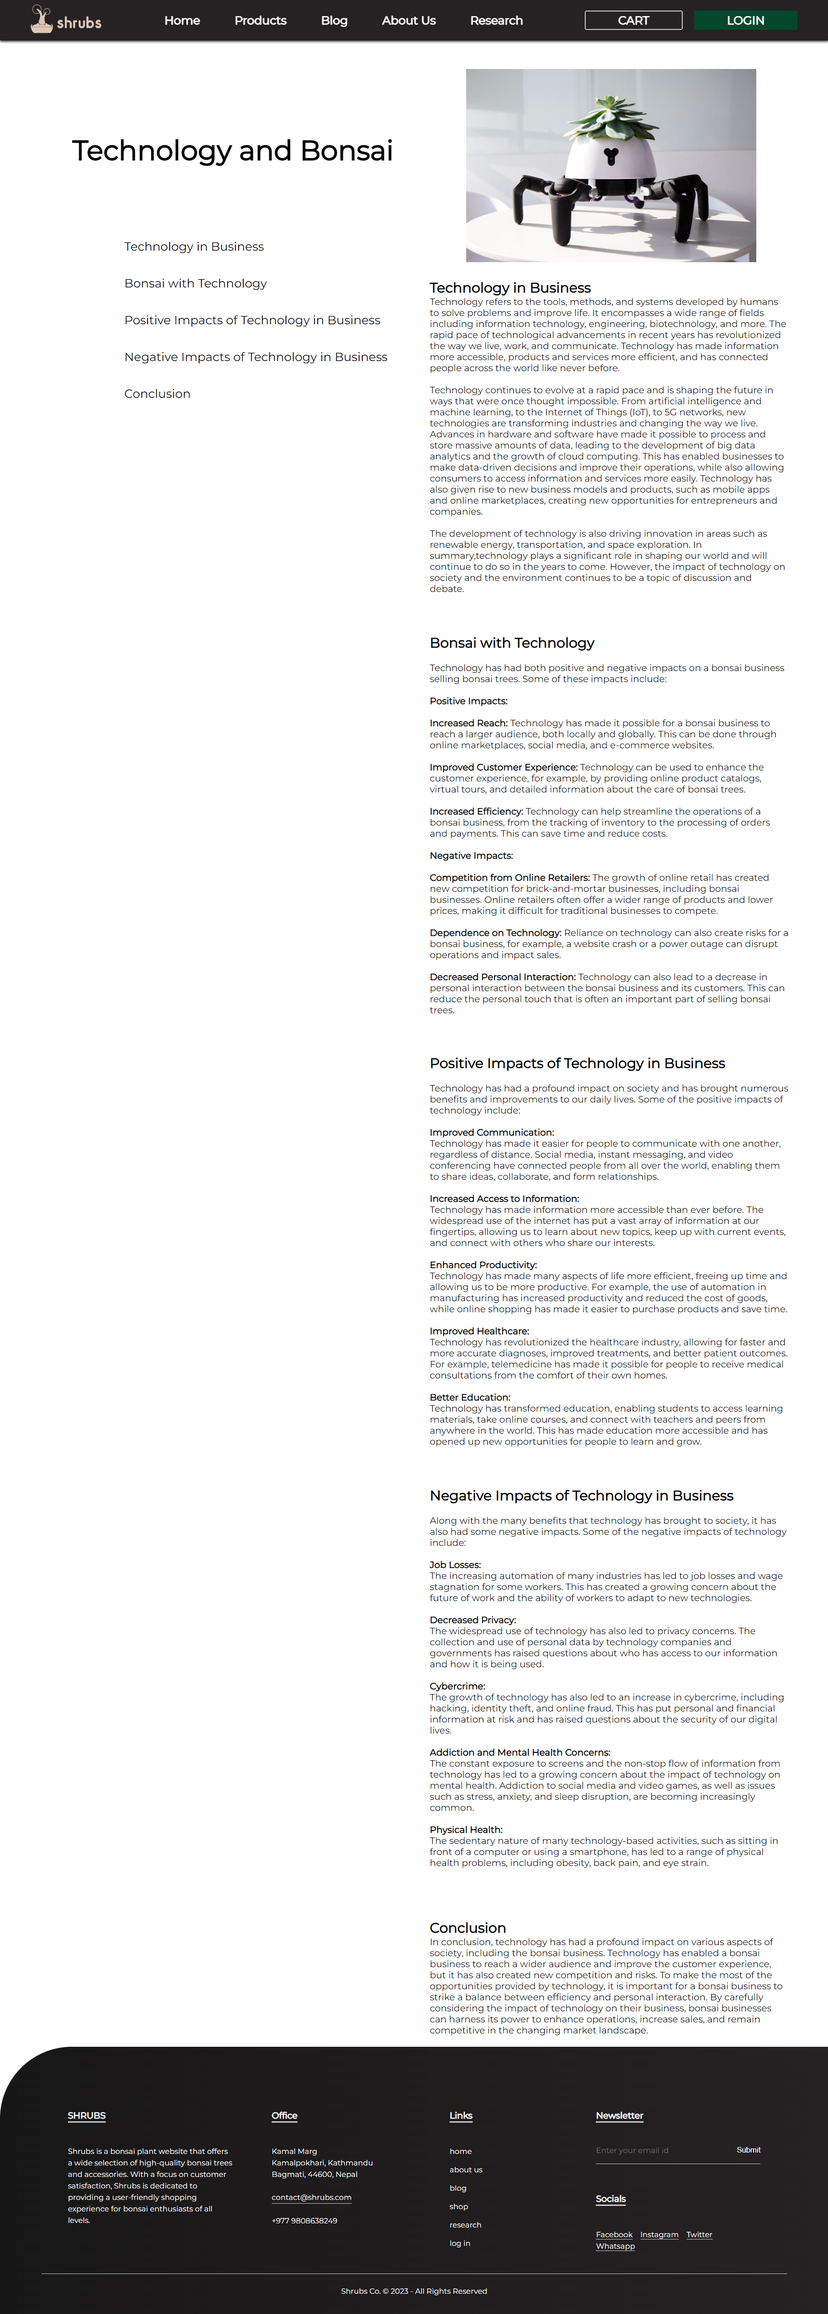
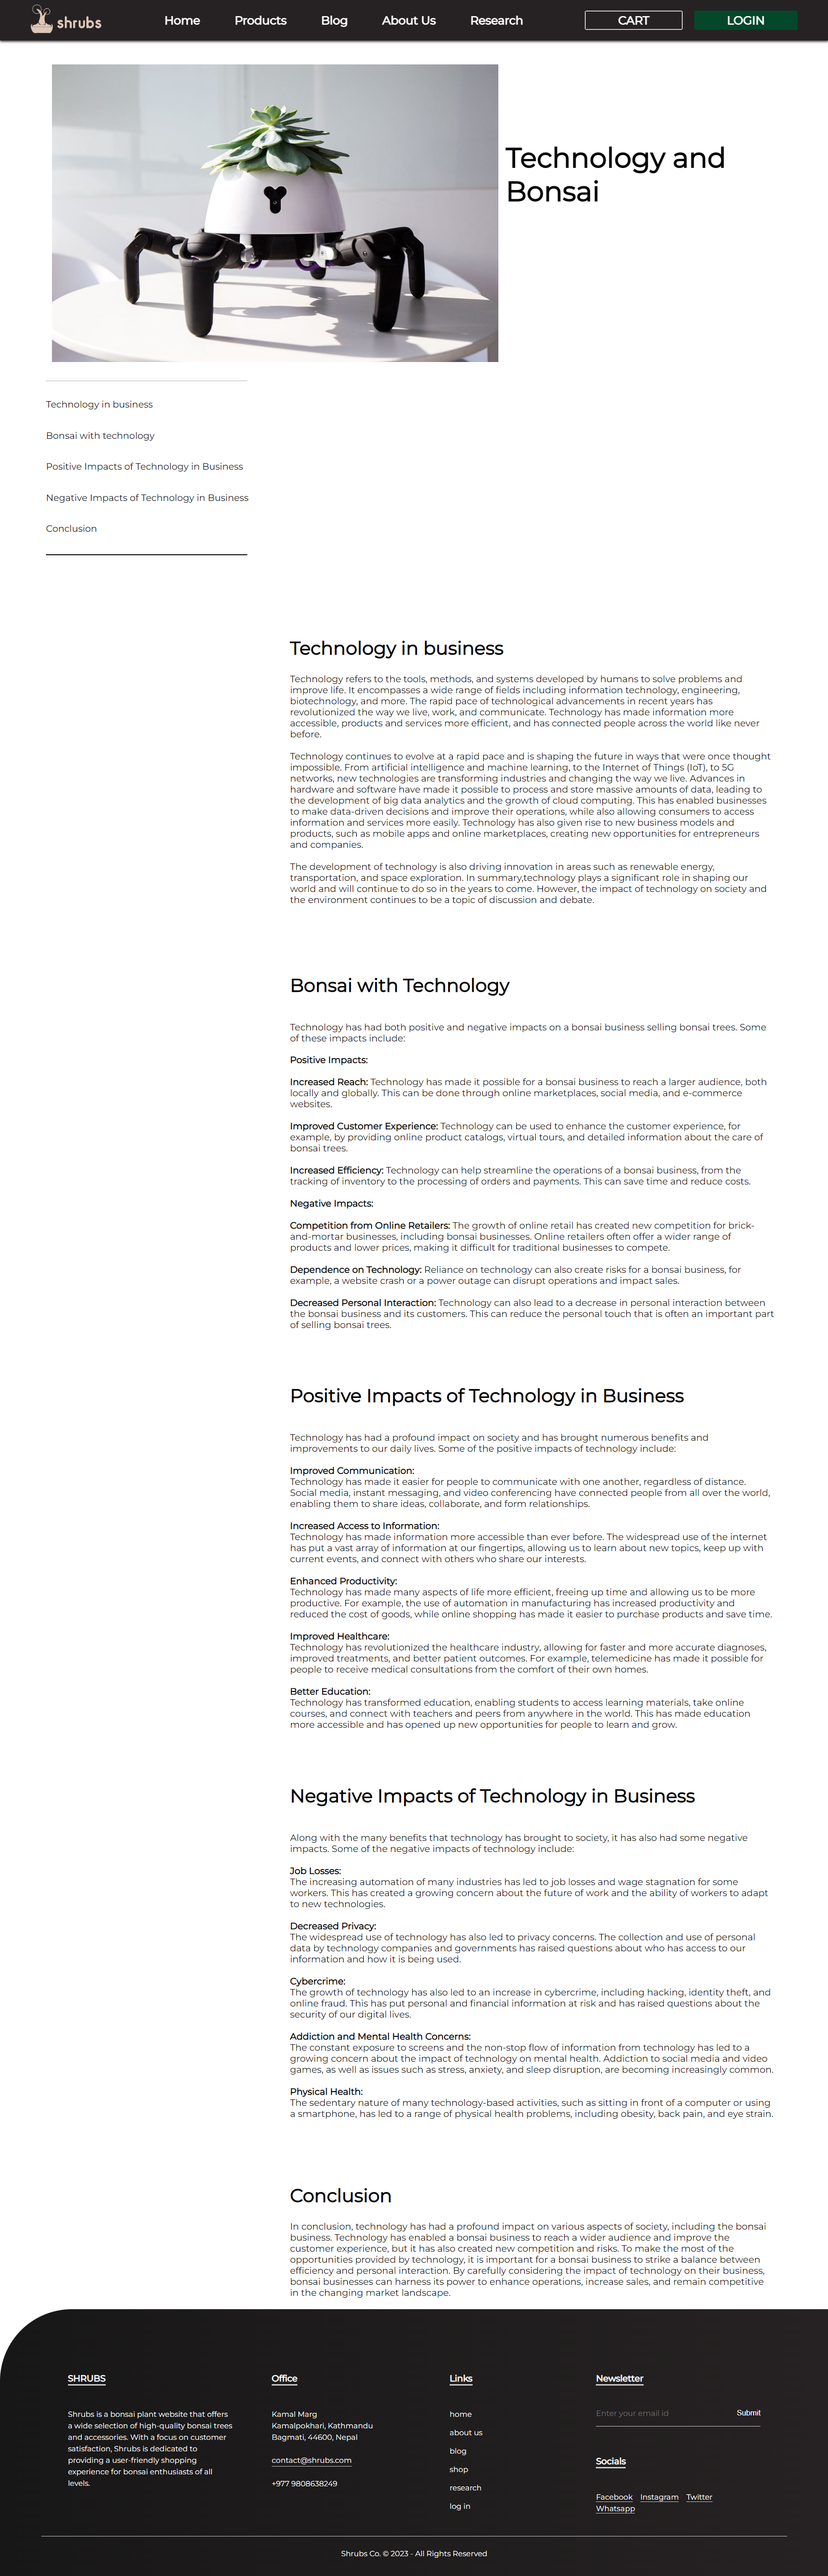
suvan optimization

Changed region(s): [[0.0, 0.0, 1.0, 0.9986], [0.5286, 0.9362, 0.5908, 0.9986]]

diff --git a/html/blog.html b/html/blog.html
@@ -1,60 +1,63 @@
 <!DOCTYPE html>
-<html>
+<html lang="en">
 
 <head>
     <meta charset="UTF-8">
     <meta http-equiv="X-UA-Compatible" content="IE=edge">
-    <meta name="viewport" content="width=device-width, inital-scale=1.0">
+    <meta name="viewport" content="width=device-width, initial-scale=1.0">
     <meta name="Aayesha,Kushal,Pakiza,Samir,Suvan" content="Islington">
-    <meta name="Blog" content="HTML,CSS,Javascript">
-    <title>Blog</title>
-    <link rel="shortcut icon" href="../images/logo.png" type="image/x-icon">
-    <link rel="stylesheet" href="../css/blog.css">
+    <meta name="Research of Home page" content="HTML,CSS,Javascript">
+    <title>Blog
+    </title>
+    <link rel="stylesheet" href="../css/research_individual.css">
+    <link rel="stylesheet" href="../css/research_home.css">
     <link rel="stylesheet" href="../css/style.css">
+    <link rel="shortcut icon" href="../images/logo.png" type="image/x-icon">
 </head>
 
 <body>
-    <noscript></noscript>
     <navigation-bar></navigation-bar>
-    <div class="heading">
-        <h1>Technology and Bonsai</h1>
-        <img src="../images/techplant.jpg" width="35% height=35%">
-    </div>
-    <div class="flex-parent-element">
-        <div class="flex-child-element">
-            <main>
-                <header id="header">
-                    <nav id="jump">
-                        <a href="#technology" style="color: #000" ;>
-                            Technology in Business</a>
-                        <br>
-                        <br>
-                        <br>
-                        <a href="#bonsai" style="color: #000" ;>
-                            Bonsai with Technology</a>
-                        <br>
-                        <br>
-                        <br>
-                        <a href="#positive" style="color: #000">
-                            Positive Impacts of Technology in Business</a>
-                        <br>
-                        <br>
-                        <br>
-                        <a href="#negative" style="color: #000">
-                            Negative Impacts of Technology in Business</a>
-                        <br>
-                        <br>
-                        <br>
-                        <a href="#conclusion" style="color: #000">
-                            Conclusion</a>
-                    </nav>
-                </header>
-            </main>
+    <div class="research">
+        <div class="research_head">
+            <div class="research_head_content">
+
+                <div class="research_image">
+                    <img src="../images/techplant.jpg">
+                </div>
+                <div class="research_content">
+                    <h1>Technology and Bonsai</h1>
+                </div>
+            </div>
         </div>
-        <div class="flex-child-element1">
-            <section id="technology">
-                <h1>Technology in Business</h1>
-                <p>Technology refers to the tools, methods, and systems developed by humans to solve problems and
+
+
+
+        <div class="lists">
+            <ul>
+                <a href="#value1" class="active">
+                    <li>Technology in business</li>
+                </a>
+                <a href="#value2">
+                    <li>Bonsai with technology</li>
+                </a>
+                <a href="#value3">
+                    <li>Positive Impacts of Technology in Business</li>
+                </a>
+                <a href="#value4">
+                    <li>Negative Impacts of Technology in Business</li>
+                </a>
+                <a href="#value5">
+                    <li> Conclusion</li>
+                </a>
+            </ul>
+        </div>
+
+        <div class="list-desc">
+            <div class="value">
+                <div class="value-content">
+                    <h1 id="value1">Technology in business</h1>
+                    <p>
+                    Technology refers to the tools, methods, and systems developed by humans to solve problems and
                     improve life. It encompasses a wide range of fields including information technology, engineering,
                     biotechnology, and more. The rapid pace of technological advancements in recent years has
                     revolutionized the way we live, work, and communicate. Technology has made information more
@@ -80,10 +83,11 @@
                     do so in the years to come. However, the impact of technology on society and the environment
                     continues to be a topic of
                     discussion and debate.
-                </p>
-            </section>
-            <section id="bonsai">
-                <h1>Bonsai with Technology</h1>
+                    </p>
+                </div>
+            </div>
+            <div class="value">
+                <h1 id="value2">Bonsai with Technology</h1>
                 <p>
                     <br>
                     Technology has had both positive and negative impacts on a bonsai business selling bonsai trees.
@@ -129,9 +133,10 @@
                     between the bonsai business and its customers. This can reduce the personal touch that is often an
                     important part of selling bonsai trees.
                 </p>
-            </section>
-            <section id="positive">
-                <h1>Positive Impacts of Technology in Business</h1>
+            </div>
+
+            <div class="value">
+                <h1 id="value3">Positive Impacts of Technology in Business</h1>
                 <p>
                     <br>
                     Technology has had a profound impact on society and has brought numerous benefits and improvements
@@ -170,9 +175,10 @@
                     materials, take online courses, and connect with teachers and peers from anywhere in the world. This
                     has made education more accessible and has opened up new opportunities for people to learn and grow.
                 </p>
-            </section>
-            <section id="negative">
-                <h1>Negative Impacts of Technology in Business</h1>
+            </div>
+
+            <div class="value">
+                <h1 id="value4">Negative Impacts of Technology in Business</h1>
                 <p>
                     <br>
                     Along with the many benefits that technology has brought to society, it has also had some negative
@@ -211,9 +217,9 @@
                     <br>
                     <br>
                 </p>
-            </section>
-            <section id="conclusion">
-                <h1>Conclusion</h1>
+            </div>
+            <div class="value">
+                <h1 id="value5">Conclusion</h1>
                 <p>
                     In conclusion, technology has had a profound impact on various aspects of society, including the
                     bonsai business. Technology has enabled a bonsai business to reach a wider audience and improve the
@@ -225,10 +231,12 @@
                     <br>
                     <br>
                 </p>
-            </section>
+            </div>
         </div>
     </div>
     <page-footer></page-footer>
     <script src="../javascript/nav.js"></script>
     <script src="../javascript/footer.js"></script>
 </body>
+
+</html>

diff --git a/html/aboutUs_research.html b/html/aboutUs_research.html
@@ -10,7 +10,7 @@
     <title>Research - About Us</title>
     <link rel="shortcut icon" href="../images/logo.png" type="image/x-icon">
     <link rel="stylesheet" href="../css/research_individual.css">
-    <link rel="stylesheet" href="../css/research_aboutus.css">
+    <link rel="stylesheet" href="../css/research_css.css">
     <link rel="stylesheet" href="../css/style.css">
 </head>
 
@@ -26,7 +26,7 @@
                     <img src="../images/aboutus_research.png">
                 </div>
                 <div class="research_content">
-                    <h1>What do you think about us?</h1>
+                    <h1>Development of About us Page</h1>
                 </div>
             </div>
         </div>
@@ -71,6 +71,7 @@
                     of a text input for name, an email input for email, and a textarea input for feedback. The form also 
                     includes a submit button with the label "Submit". The form inputs have the "required" attribute to make 
                     them mandatory for submitting the form.
+                    <img src="../images/research_aboutus7.png" style="margin-top: 25px; margin-bottom: 25px; height: 100%; width: 100%;">
                 </p>
             </div>
 
@@ -95,7 +96,7 @@
 
                     <img src="../images/research_aboutus3.png" style="height: 30%; width: 60%; margin-left: 20%; margin-top: 25px; margin-bottom: 25px;">
                     <p><b>Shrubs:</b></p>
-                    <img src="../images/research_login1.png" style="height: 30%; width: 60%; margin-left: 20%; margin-top: 25px; margin-bottom: 25px;">
+                    <img src="../images/research_aboutus8.png" style="height: 30%; width: 60%; margin-left: 20%; margin-top: 25px; margin-bottom: 25px;">
                 </p>
                     
             </div>
@@ -108,8 +109,6 @@
                         <p><b>Dave:</b></p>
 
                     <img src="../images/research_aboutus4.png" style="height: 30%; width: 60%; margin-left: 20%; margin-top: 25px; margin-bottom: 25px;">
-                    <p><b>Shrubs:</b></p>
-                    <img src="../images/research_login1.png" style="height: 30%; width: 60%; margin-left: 20%; margin-top: 25px; margin-bottom: 25px;">
                 </p>
                 <p>
                     2. Our about us page consists of a section showcasing details of team members which when hovered over the image of
@@ -120,16 +119,13 @@
 
                     <img src="../images/research_aboutus5.png" style="height: 30%; width: 60%; margin-left: 20%; margin-top: 25px; margin-bottom: 25px;">
                     <p><b>Shrubs:</b></p>
-                    <img src="../images/research_login1.png" style="height: 30%; width: 60%; margin-left: 20%; margin-top: 25px; margin-bottom: 25px;">
+                    <img src="../images/research_aboutus9.png" style="height: 30%; width: 60%; margin-left: 20%; margin-top: 25px; margin-bottom: 25px;">
                 </p>
                 <p>
                     3. Our about us page contains a feedback form at the end. About dave doesn't.
                     <br>
-                        <p><b>Dave:</b></p>
-
-                    <img src="../images/research_aboutus6.png" style="height: 30%; width: 60%; margin-left: 20%; margin-top: 25px; margin-bottom: 25px;">
                     <p><b>Shrubs:</b></p>
-                    <img src="../images/research_login1.png" style="height: 30%; width: 60%; margin-left: 20%; margin-top: 25px; margin-bottom: 25px;">
+                    <img src="../images/research_aboutus10.png" style="height: 30%; width: 60%; margin-left: 20%; margin-top: 25px; margin-bottom: 25px;">
                 </p>
             </div>
         </div>

diff --git a/html/research.html b/html/research.html
@@ -25,7 +25,7 @@
                     | JANUARY 31 , 2023
                 </p>
                 <div class="block-header">
-                    <a href="research_home.html">Welcome to our home</h2></a>
+                    <a href="research_home.html">Development of Home Page</h2></a>
                 </div>
             </div>
             <div class="block-image">
@@ -39,7 +39,7 @@
                     | JANUARY 31 , 2023
                 </p>
                 <div class="block-header">
-                    <a href="research_product.html">Do you like our new products?</h2></a>
+                    <a href="research_product.html">Development of Product Page</h2></a>
                 </div>
             </div>
             <div class="block-image">
@@ -53,11 +53,11 @@
                     | JANUARY 31 , 2023
                 </p>
                 <div class="block-header">
-                    <a href="research_blog.html">Read our Blog</h2></a>
+                    <a href="research_blog.html">Development of Blog Page</h2></a>
                 </div>
             </div>
             <div class="block-image">
-                <img src="../images/blog_research.png">
+                <img src="../images/research_blog4.png">
             </div>
         </div>
         <div class="research-block">
@@ -67,7 +67,7 @@
                     | JANUARY 31 , 2023
                 </p>
                 <div class="block-header">
-                    <a href="aboutUs_research.html">What do you think About Us?</h2></a>
+                    <a href="aboutUs_research.html">Development of About us Page</h2></a>
                 </div>
             </div>
             <div class="block-image">
@@ -81,7 +81,7 @@
                     | JANUARY 31 , 2023
                 </p>
                 <div class="block-header">
-                    <a href="research_login.html">Wanna log in our sign up?</h2></a>
+                    <a href="research_login.html">Development of Log in Page</h2></a>
                 </div>
             </div>
             <div class="block-image">

diff --git a/html/research_blog.html b/html/research_blog.html
@@ -24,10 +24,10 @@
             <div class="research_head_content">
 
                 <div class="research_image">
-                    <img src="../images/blog_research.png">
+                    <img src="../images/research_blog4.png">
                 </div>
                 <div class="research_content">
-                    <h1>Read our blog</h1>
+                    <h1>Development of Blog Page</h1>
                 </div>
             </div>
         </div>
@@ -135,7 +135,7 @@
         
                     <img src="../images/research_blog5.png" style="margin-top: 25px; margin-bottom: 25px; height: 70%; width: 70%; margin-left: 7rem;">
                     <p><b>Shrubs:</b></p>
-                    <img src="../images/research_blog7.png" style="height: 30%; width: 60%; margin-left: 20%; margin-top: 25px; margin-bottom: 25px;">
+                    <img src="../images/research_blog4.png" style="height: 30%; width: 60%; margin-left: 20%; margin-top: 25px; margin-bottom: 25px;">
                 </p>
                 <p>
                     3. Both pages also use CSS for styling, including for defining the layout, font styles, and colors used on the page.
@@ -145,7 +145,7 @@
                     <img src="../images/research_blog.png" style="margin-top: 25px; margin-bottom: 25px; height: 70%; width: 70%; margin-left: 7rem;">
                     <img src="../images/research_blog1.png" style="margin-top: 25px; margin-bottom: 25px; height: 70%; width: 70%; margin-left: 7rem;">
                     <p><b>Shrubs:</b></p>
-                    <img src="../images/blog_research.png" style="height: 30%; width: 60%; margin-left: 20%; margin-top: 25px; margin-bottom: 25px;">
+                    <img src="../images/research_blog4.png" style="height: 30%; width: 60%; margin-left: 20%; margin-top: 25px; margin-bottom: 25px;">
                 </p>
             </div>
 

diff --git a/html/research_login.html b/html/research_login.html
@@ -9,7 +9,7 @@
     <meta name="Research of Login and Sign up" content="HTML,CSS,Javascript">
     <title>Research - Login</title>
     <link rel="stylesheet" href="../css/research_individual.css">
-    <link rel="stylesheet" href="../css/research_login.css">
+    <link rel="stylesheet" href="../css/research_css.css">
     <link rel="stylesheet" href="../css/style.css">
     <link rel="shortcut icon" href="../images/logo.png" type="image/x-icon">
 </head>
@@ -27,7 +27,7 @@
                     <img src="../images/login_research.png">
                 </div>
                 <div class="research_content">
-                    <h1>Wanna log in or sign up?</h1>
+                    <h1>Development of Log in Page</h1>
                 </div>
             </div>
         </div>

diff --git a/html/research_home.html b/html/research_home.html
@@ -9,7 +9,7 @@
     <meta name="Research of Home page" content="HTML,CSS,Javascript">
     <title>Research - Home</title>
     <link rel="stylesheet" href="../css/research_individual.css">
-    <link rel="stylesheet" href="../css/research_home.css">
+    <link rel="stylesheet" href="../css/research_css.css">
     <link rel="stylesheet" href="../css/style.css">
     <link rel="shortcut icon" href="../images/logo.png" type="image/x-icon">
 </head>
@@ -27,7 +27,7 @@
                     <img src="../images/home_research.png">
                 </div>
                 <div class="research_content">
-                    <h1>Welcome to our home</h1>
+                    <h1>Development of Home Page</h1>
                 </div>
             </div>
         </div>

diff --git a/javascript/nav.js b/javascript/nav.js
@@ -13,7 +13,7 @@ class NavBar extends HTMLElement {
                 <li><a href="research.html">Research</a></li>
             </ul>
             <div class="nav-bar-right">
-            <div id="cart"><button onclick="cartActivation()">CART</button></div>
+            <div id="cart"><button onclick="cartActivation(); cartCLose();">CART</button></div>
                 <div class="login-logout">
                     <div class="login-user"><button onclick="reDirToLogin()">LOGIN</button>
                     </div>
@@ -96,7 +96,7 @@ let cartActivation = () => {
 };
 
 // CloseCart
-cartClose = () => {
+let cartClose = () => {
     cart.classList.remove('active');
 };
 

diff --git a/html/research_product.html b/html/research_product.html
@@ -25,7 +25,7 @@
                     <img src="../images/Product_research.png">
                 </div>
                 <div class="research_content">
-                    <h1>Do you like our new products?</h1>
+                    <h1>Development of Product Page</h1>
                 </div>
             </div>
         </div>

diff --git a/css/research_css.css b/css/research_css.css
@@ -1,8 +1,3 @@
-.va{
-    padding-right: 7rem;
-    margin-right: 7rem;
-}
-
 .value img{
     align-items: center;
     width: 100%;
